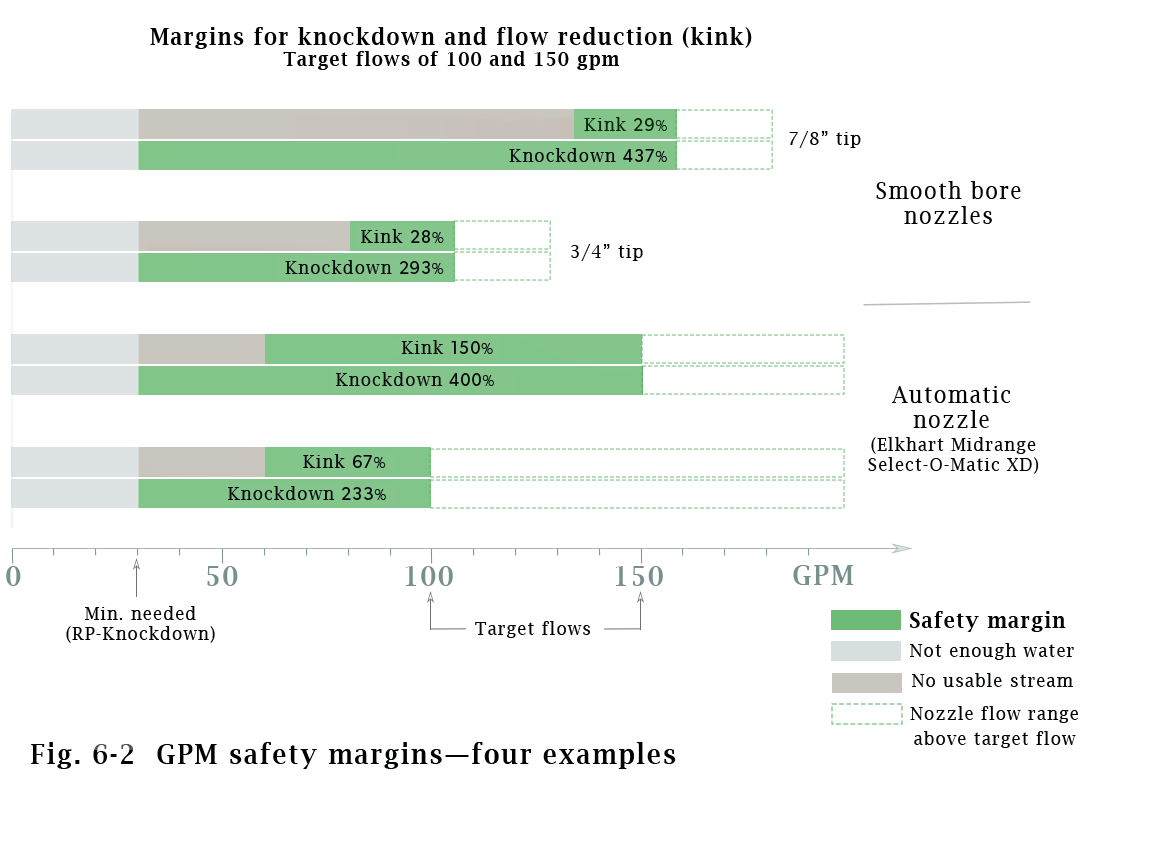
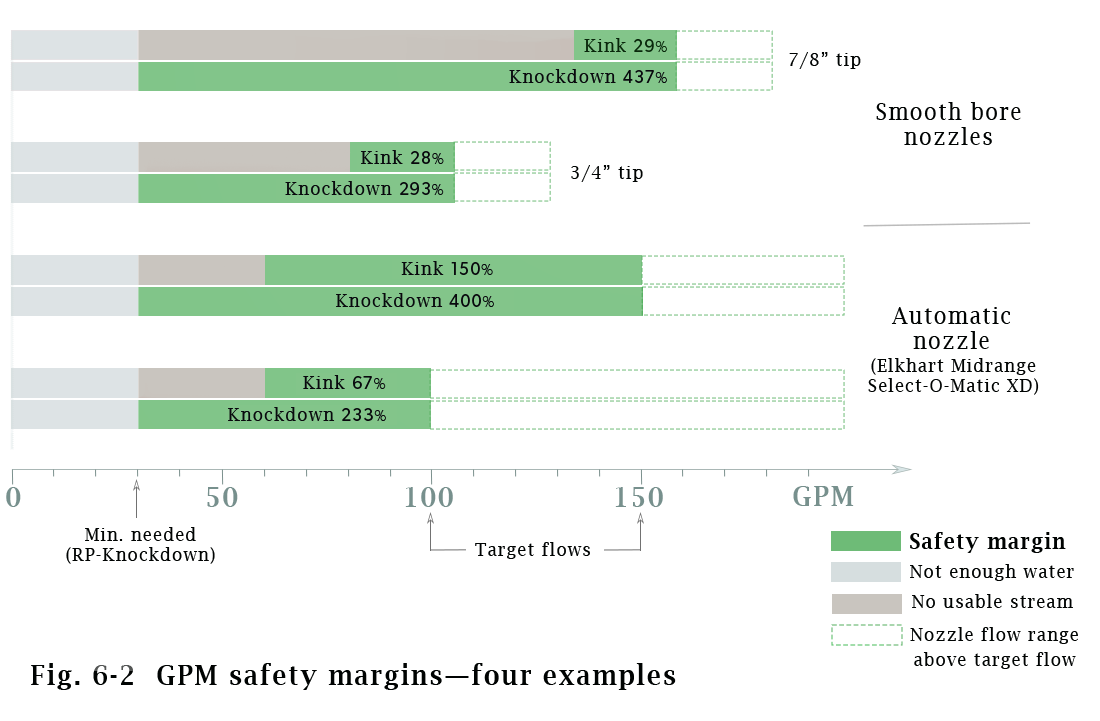
Subtracted top title from margin graphic

diff --git a/GPM.html b/GPM.html
@@ -96,7 +96,7 @@
 </p>
 	
 
-<p>Figure 6-2 shows that, when some departments pushed residential target flows from 100 gpm to 150, they expanded knockdown margins that were already large (> 230%).&nbsp; Any risk reduction was tiny.&nbsp; Kink margins shrank if they changed from adjustable-flow to fixed-flow nozzles (e.g. automatic to smooth-bore); grew if they kept adjustable-flow; and stayed the same if they kept fixed-flow.&nbsp; So the only margin benefit of the flow increase went to departments that had adjustable-flow nozzles and stayed with them.&nbsp;  They saw a modest decline of their risk from kinks.</p>	
+<p>Figure 6-2 shows that, when some departments pushed residential target flows from 100 gpm to 150, they expanded knockdown margins that were already large (> 230%).&nbsp; Any risk reduction was tiny.&nbsp; Kink margins shrank if they changed from adjustable-flow to fixed-flow nozzles (e.g. automatic to smooth-bore); grew if they kept adjustable-flow; and stayed the same if they kept fixed-flow.&nbsp; So the only benefit of the flow increase went to departments that had adjustable-flow nozzles and stayed with them.&nbsp;  They saw a modest decline of their risk from kinks.</p>	
 	
 <br>
 	
